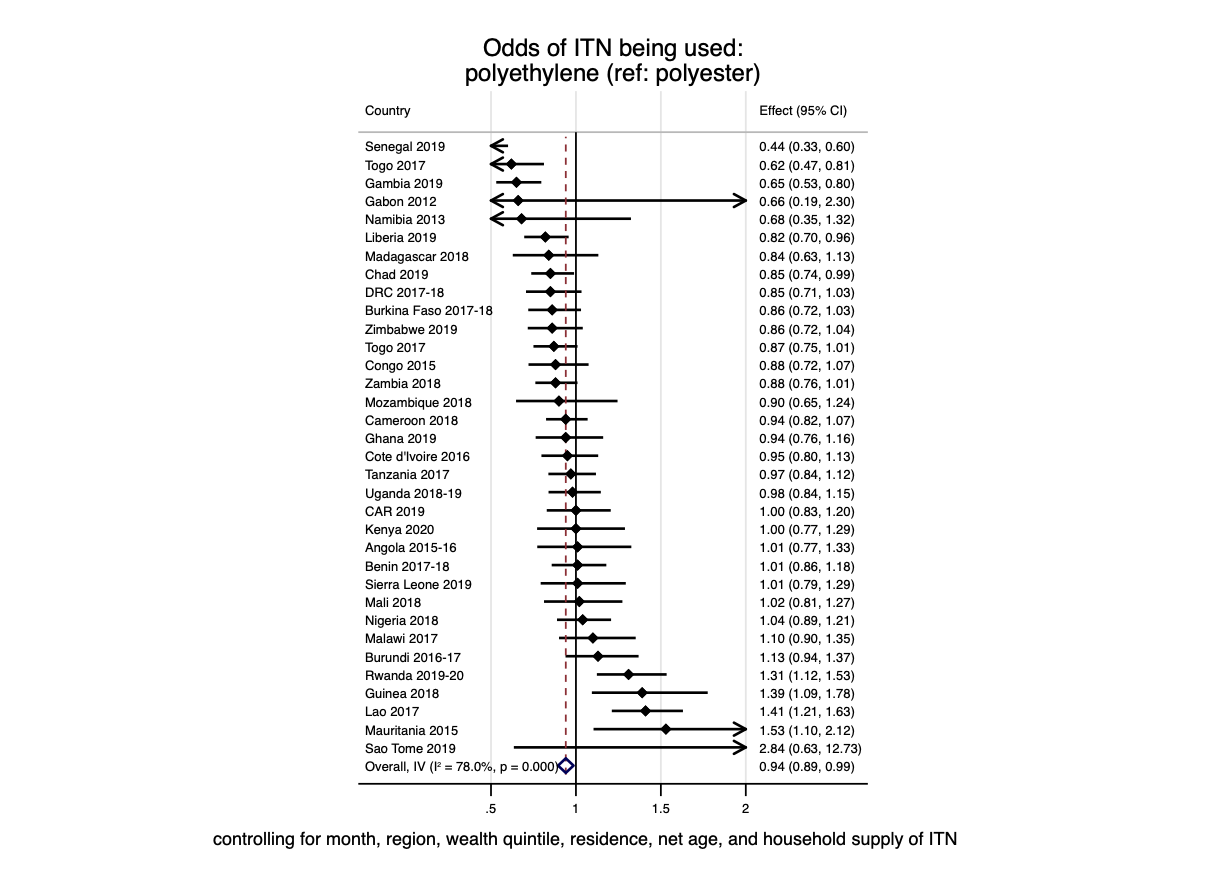
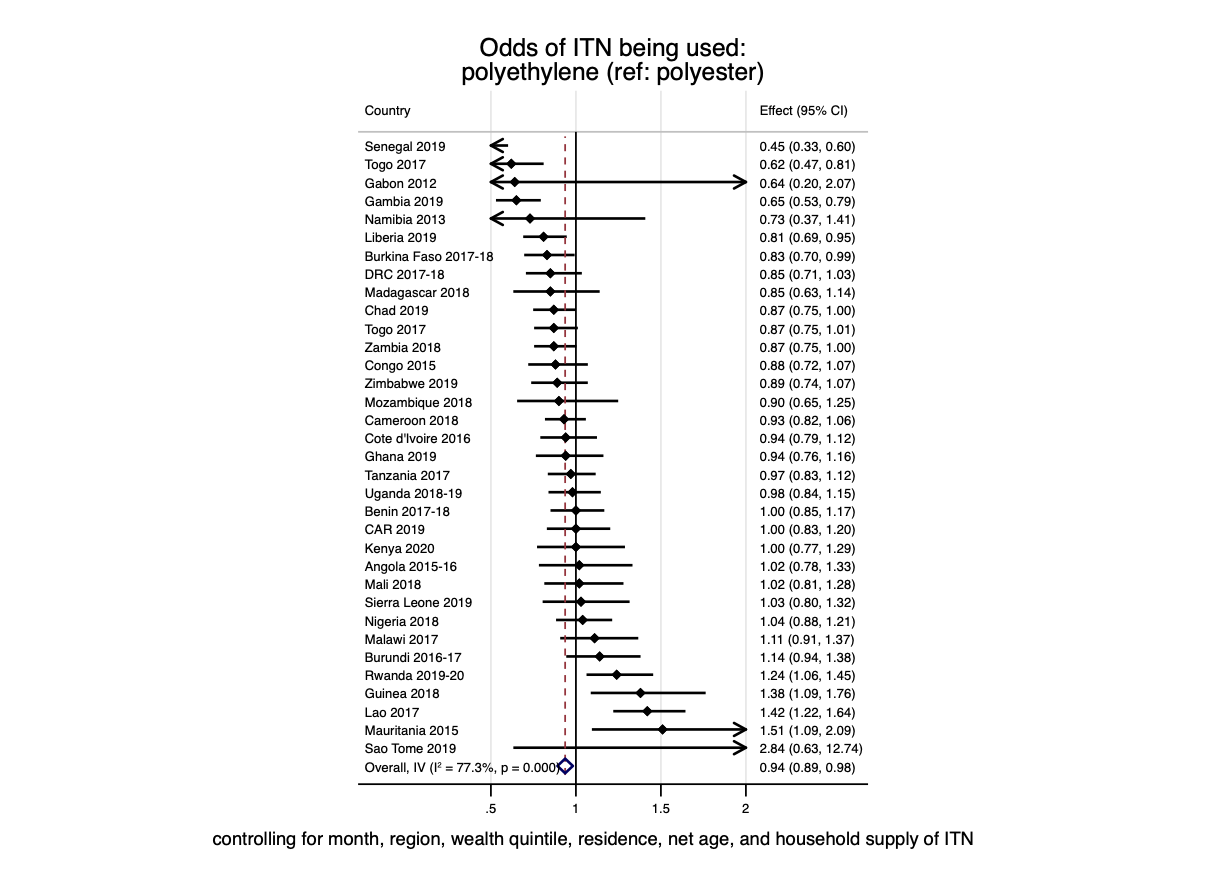
added h2 headers

diff --git a/docs/index.html b/docs/index.html
@@ -2414,7 +2414,11 @@ code span.wa { color: #5e5e5e; font-style: italic; } /* Warning */
 <h1>
 Summary
 </h1>
-<p>Data from the most recent MIS, DHS, and MICS were obtained with permission from dhsprogram.com and mics.unicef.org. We plot several maps below of relevant indicators. Figure <a href="#fig:usediff">1</a> presents the crude (absolute) difference between the proportion of polyester nets used the previous night and the proportion of polyethylene nets used the previous night. In nearly all cases this difference is less than 10 percentage points and the majority of recent surveys show no significant difference in the overall use rate of nets of different textiles.</p>
+<p>Data from the most recent MIS, DHS, and MICS were obtained with permission from dhsprogram.com and mics.unicef.org. We plot several maps below of relevant indicators.</p>
+<h2>
+How big are the differences in use between PE and PET nets?
+</h2>
+<p>Figure <a href="#fig:usediff">1</a> presents the crude (absolute) difference between the proportion of polyester nets used the previous night and the proportion of polyethylene nets used the previous night. In nearly all cases this difference is less than 10 percentage points and the majority of recent surveys show no significant difference in the overall use rate of nets of different textiles.</p>
 <div class="layout-chunk" data-layout="l-body-outset">
 <div class="figure"><span style="display:block;" id="fig:usediff"></span>
 <p class="caption">
@@ -2423,7 +2427,10 @@ Figure 1: Crude difference in % of nets used between textiles
 <img src="index_files/figure-html5/usediff-1.png" alt="Crude difference in % of nets used between textiles" width="624" />
 </div>
 </div>
-<p>Figure <a href="#fig:sigmultivar">2</a> summarizes countries where the most recent survey shows a correlation between the textile of a net and whether it was used the previous night. In most countries, textile is not significantly correlated with use when controlling for other factors.</p>
+<h2>
+Is textile an important predictor of net use after controlling for other factors?
+</h2>
+<p>Figure <a href="#fig:sigmultivar">2</a> summarizes countries where the most recent survey shows a correlation between the textile of a net and whether it was used the previous night. In most countries, textile is not significantly correlated with use when controlling for other key factors, such as the household’s net supply (# of nets and # of family members), the month of the survey (seasonality), region, urban/rural, and wealth quintile.</p>
 <div class="layout-chunk" data-layout="l-body-outset">
 <div class="figure"><span style="display:block;" id="fig:sigmultivar"></span>
 <p class="caption">
@@ -2432,6 +2439,9 @@ Figure 2: Correlation of textile with use: adjusted for household supply of nets
 <img src="index_files/figure-html5/sigmultivar-1.png" alt="Correlation of textile with use: adjusted for household supply of nets, net age, region, wealth, urban/rural, net age, and month" width="624" />
 </div>
 </div>
+<h2>
+How complete is the information we have for net textile in these surveys?
+</h2>
 <p>The textile is determined from the brand information collected in the survey; in some surveys the proportion of nets with an unknown brand can be considerable. Figure <a href="#fig:txtunknown">3</a> summarizes the proportion of nets with an unknown brand and thus an unknown textile. This provides important context when interpreting results above.</p>
 <div class="layout-chunk" data-layout="l-body-outset">
 <div class="figure"><span style="display:block;" id="fig:txtunknown"></span>
@@ -2441,7 +2451,10 @@ Figure 3: Proportion of nets with unknown brand &amp; textile
 <img src="index_files/figure-html5/txtunknown-1.png" alt="Proportion of nets with unknown brand &amp; textile" width="624" />
 </div>
 </div>
-<p>Figure <a href="#fig:polyester">4</a> illustrates the distribution of textiles within countries - darker reds indicate a high proportion of polyethylene nets, and darker blues indicate majority polyester nets at the time of the most recent survey.</p>
+<h2>
+Do countries have primarily one type of net, or a mix?
+</h2>
+<p>Figure <a href="#fig:polyester">4</a> illustrates the relative share of polyester and polyethylene nets within countries - darker reds indicate a high proportion of polyethylene nets, and darker blues indicate majority polyester nets. It’s important to keep in mind this is from the time of the most recent survey; the picture may be different if the survey has a high percentage of nets with an unknown brand (see above), and if a country has conducted a mass campaign since the survey.</p>
 <div class="layout-chunk" data-layout="l-body-outset">
 <div class="figure"><span style="display:block;" id="fig:polyester"></span>
 <p class="caption">
@@ -2463,8 +2476,9 @@ Figure 4: Proportion of nets that are polyester
 
 </div>
 <h2>
-Meta analysis across multiple surveys and countries
+Meta analysis across countries
 </h2>
+<p>This forest plot summarizes the regression results for all available surveys, restricted to the most recent survey for each country. The bottom line shows that overall, polyethylene nets are only slightly less likely to be used the night before compared to polyester nets (adjusted odds ratio: 0.94, 95% CI 0.89-0.98) when controlling for background factors.</p>
 <div class="layout-chunk" data-layout="l-body-outset">
 <div class="figure"><span style="display:block;" id="fig:unnamed-chunk-2"></span>
 <p class="caption">
